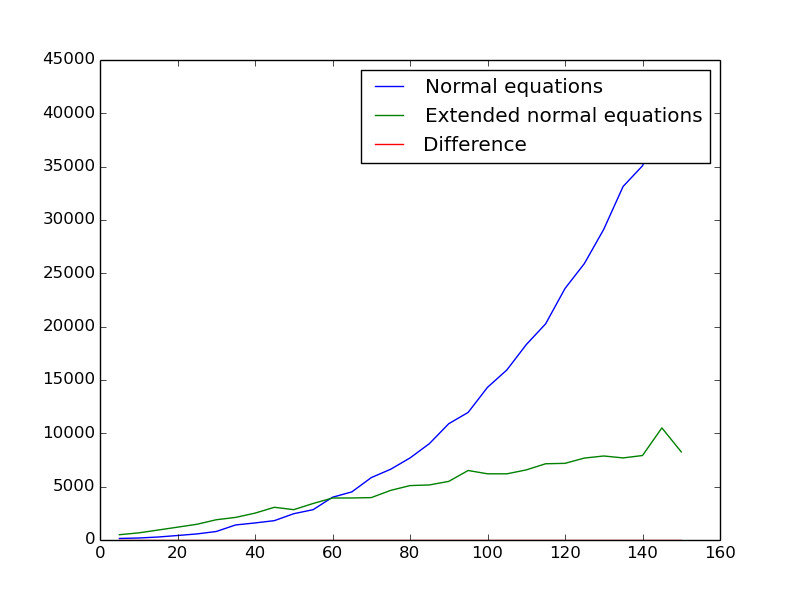
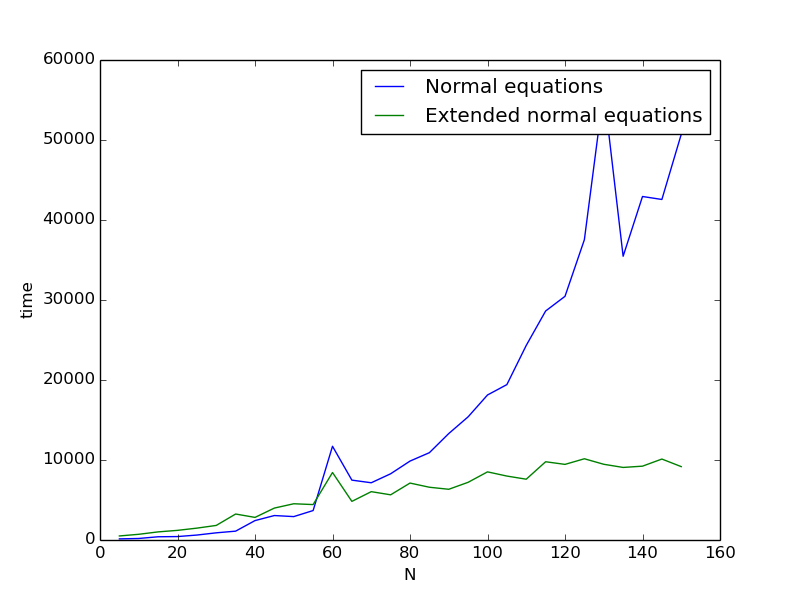
Improved plots

diff --git a/sparse/main.cpp b/sparse/main.cpp
@@ -110,7 +110,7 @@ int main() {
     auto f = [](double d) { return M_PI * M_PI * sin(M_PI * d); };
 
     vector<double> x(30);
-    vector<double> error(30);
+    vector<double> diff(30);
     vector<double> norm(30);
     vector<double> sparse(30);
 
@@ -144,22 +144,29 @@ int main() {
             std::chrono::duration_cast<std::chrono::microseconds>(t3 - t2)
                 .count();
 
-        double e = (s1 - s2).norm();
+        double d = (s1 - s2).norm();
 
         norm[i] = duration1;
         sparse[i] = duration2;
-        error[i] = e;
+        diff[i] = d;
 
         cout << setw(16) << N << setw(16) << duration1 << setw(16) << duration2
-             << setw(16) << e << endl;
+             << setw(16) << d << endl;
     }
 
     plt::figure();
+    plt::xlabel("N");
+    plt::ylabel("time");
     plt::named_plot("Normal equations", x, norm);
     plt::named_plot("Extended normal equations", x, sparse);
-    plt::named_plot("Difference", x, error);
     plt::legend();
     plt::save("./sparse.png");
+
+    plt::figure();
+    plt::xlabel("N");
+    plt::ylabel("difference");
+    plt::semilogy(x, diff);
+    plt::save("./difference.png");
 
     return 0;
 }
